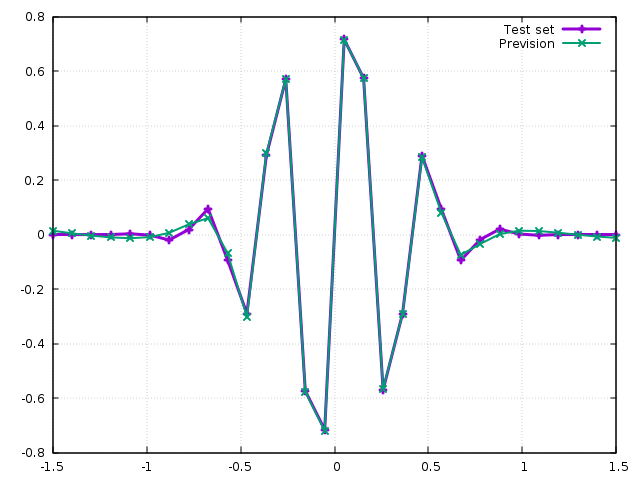
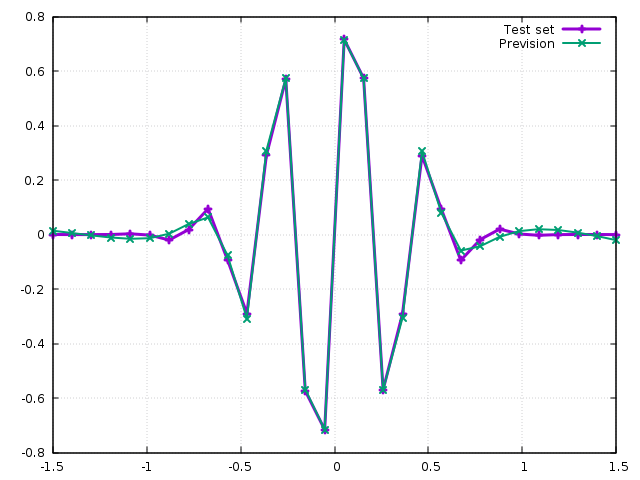
New branch: opt-inheritance
Rewrited Optimizers.hpp using single public inheritance. Classes are:
  GradientDescent->GDwithMomentum,RMSprop,KingmaBa=0
  KingmaBa->Adam(has one RMSprop object), AdaMax

The optimizer has still to be chosen compile time, changing its
declaration in NeuralNetwork.hpp (2 lines, b and W).

Results are coherent with the previous one obtained w/o inheritance.

Adam call operator has been made more memory efficient too.

The results provided in ./data/ are the one obtained with Adam.

For merge: only the file Optimizers.hpp has been significantly changed.

diff --git a/include/Optimizers.hpp b/include/Optimizers.hpp
@@ -13,94 +13,103 @@ It is necessary to work both with VectorXd and MatrixXd.
 Maybe it's better to use something like:
 	template <typename Derived>
 	void function_name( const MatrixBase<Derived> &)
-Moreover inheritance should be considered, both for the evident inherited structure
-and for polymorfism and runtime choices
 */
 
 template<typename T>
 class GradientDescent{
+protected:
+	virtual void update_objective(T& theta, const T& delta_theta, const double& alpha){
+		theta = theta - alpha*delta_theta;  
+	}
 public:
 	GradientDescent()=default;
 	GradientDescent(const size_t & m, const size_t & n):GradientDescent(){}
-	void operator()(T& theta, const T& gt, const double& alpha, const double & t){
-		theta=theta-alpha*gt;
+	virtual ~GradientDescent()=default;
+	virtual void operator()(T& theta, const T& gt, const double& alpha, const double & t){
+		update_objective(theta,gt,alpha);
 	}
 };
 
 template<typename T>
-class GDwithMomentum{
-private:
+class GDwithMomentum : public GradientDescent<T>{
+protected:
 	T mt;
 	double beta{0.9};
 public:
-	GDwithMomentum(const size_t & m, const size_t &n):mt(m,n){}
-	void set_beta(double b){beta=b;}
+	GDwithMomentum(const size_t & m, const size_t &n):GradientDescent<T>::GradientDescent(m,n),mt(m,n){}
+	virtual void set_beta(double b){beta=b;}
 	
-	void operator()(T& theta, const T& gt, const double& alpha, const double & t){
-		mt=beta*mt + (1.0-beta)*gt;
-		theta=theta-alpha*mt;
+	//Public just to be able to use an "has a" paradigm in Adam instead of multiple inheritance:
+	virtual void compute_momentum(const T & to_be_averaged){
+		mt = beta*mt + (1. - beta)*to_be_averaged;
+	}
+	void operator()(T& theta, const T& gt, const double& alpha, const double & t) override {
+		compute_momentum(gt);
+		this->update_objective(theta,mt,alpha);
 	}
 };
 
 template<typename T>
-class RMSprop{
+class RMSprop final : public GDwithMomentum<T>{
 private:
-	T st;
-	
-	double beta{0.9};
 	double epsilon{1e-8};
 public:
-	RMSprop(const size_t & m, const size_t & n):st(m,n){}
-	void set_param(double b, double e){beta=b; epsilon=e;}
+	RMSprop(const size_t & m, const size_t & n):GDwithMomentum<T>::GDwithMomentum(m,n){}
+	virtual void set_eps(double e){epsilon=e;}
+	//These 2 are needed to use "has a" in Adam, but they would be unnecessary e.g. with multiple inheritance
+	double get_eps(){return epsilon;}
+	const T& get_st(){return this->mt;}
 	
-	void operator()(T& theta, const T& gt, const double& alpha, const double & t){
-		st=beta*st + (1. - beta)*(gt.cwiseProduct(gt));
-		theta=theta - alpha * ( gt.cwiseProduct( (1./(epsilon + sqrt(st.array()))).matrix() ));
+	void operator()(T& theta, const T& gt, const double& alpha, const double & t) override {
+		this->compute_momentum(gt.cwiseProduct(gt));
+		this->update_objective(theta, ( gt.cwiseProduct( (1./(epsilon + sqrt(this->mt.array()))).matrix() )), alpha);
 	}
 };
 
 template<typename T>
-class Adam{
-private:
-	T mt;
-	T vt;
-	
-	double beta1{0.9};
+class KingmaBa : public GDwithMomentum<T>{
+protected:
 	double beta2{0.999};
-	double epsilon{1e-8};
 public:
-	Adam(const size_t & m, const size_t & n): mt(m,n), vt(m,n){}
-	void set_param(double b1, double b2, double e){
-		beta1=b1; beta2=b2; epsilon=e;
-	}
+	KingmaBa(const size_t & m, const size_t & n):GDwithMomentum<T>::GDwithMomentum(m,n){}
+	virtual void set_beta2(double b2){ beta2=b2;}
 
-	//This follows the Kingma-Ba 2015 article,
-	//consider possible memory savings...
-	void operator()(T& theta, const T& gt, const double & alpha, const size_t & t){
-		//compute the momenta:
-		mt = beta1*mt + (1.0-beta1)*gt; //GDwithMomentum step
-    vt = beta2*vt + (1.0-beta2)*(gt.cwiseProduct(gt));	//RMSprop step
-		//correction step:
-    T mt_hat = (1.0/(1.0-pow(beta1,t)))*mt;
-    T vt_hat = (1.0/(1.0-pow(beta2,t)))*vt;
-		//update:
-    theta=theta-(alpha * ( mt_hat.cwiseProduct( ( 1./(epsilon + sqrt(vt_hat.array())) ).matrix() )));
-	}
+	//void operator()(T& theta, const T& gt, const double & alpha, const double & t)override = 0;
 };
 
 template<typename T>
-class AdaMax{
+class Adam final : public KingmaBa<T>{
 private:
-	T mt;
+	RMSprop<T> rms;
+	T correction_step(const double beta, const std::size_t t, const T & mt){
+		return ((1.0/(1.0-std::pow(beta,t)))*mt); //check performance
+	}
+public:
+	Adam(const size_t & m, const size_t & n): KingmaBa<T>::KingmaBa(m,n), rms(m,n){}
+	
+		//This follows the Kingma-Ba 2015 article +  memory saving
+	void operator()(T& theta, const T& gt, const double& alpha, const double & t)override{
+		//compute the momenta:
+		this->compute_momentum(gt);	//GDwithMomentum step
+		rms.set_beta(this->beta2);
+		rms.compute_momentum(gt.cwiseProduct(gt));//RMSprop step
+		//correction step:
+		//T mt_hat = correction_step(this->beta,t,this->mt);
+		//T vt_hat = correction_step(this->beta2,t,rms.get_st());
+		//update:
+		//this->update_objective(theta,( mt_hat.cwiseProduct( ( 1./(rms.get_eps() + sqrt(vt_hat.array())) ).matrix() )), alpha);
+		this->update_objective(theta,( (correction_step(this->beta,t,this->mt)).cwiseProduct( ( 1./(rms.get_eps() + sqrt((correction_step(this->beta2,t,rms.get_st())).array())) ).matrix() )), alpha);
+	}	
+
+};
+
+template<typename T>
+class AdaMax final : public KingmaBa<T>{
+private:
 	T ut;
 	
-	double beta1{0.9};
-	double beta2{0.999};
-	double epsilon{1e-8};
-	
 	T cwiseMax(const T& a, const T& b){
-		//both T must have same dimensions,
-		//implement a check
+		//both T must have same dimensions, implement a check
 		T ret(a.rows(),a.cols());
 		for(size_t i=0; i<a.rows(); ++i)
 			for(size_t j=0; j<a.cols();++j)
@@ -108,21 +117,24 @@ private:
 		return ret;
 	}
 	
-public:
-	AdaMax(const size_t & m, const size_t & n): mt(m,n), ut(m,n){}
-	void set_param(double b1, double b2, double e){
-		beta1=b1; beta2=b2; epsilon=e;
-	}
+	//could be avoided with KingmaBa: public GDwithMomentum<T>, public RMSprop<T>
+	double epsilon{1e-8};
 	
-	//Memory already saved here,
-	//since AdaMax doesn't require an Adam-like correction step
-	void operator()(T& theta, const T& gt, const double & alpha, const size_t & t){
+public:
+	AdaMax(const size_t & m, const size_t & n): KingmaBa<T>::KingmaBa(m,n), ut(m,n){}
+	
+	void set_epsilon(double e){epsilon=e;}
+	
+	//Memory already saved here, since AdaMax doesn't require an Adam-like correction step:
+	void operator()(T& theta, const T& gt, const double& alpha, const double & t)override{
 		//compute the momenta
-		mt = beta1*mt + (1.0-beta1)*gt; //GDwithMomentum step
-		ut = cwiseMax(beta2*ut,gt.cwiseAbs()); //AdaMax step
+		this->compute_momentum(gt);										//GDwithMomentum step
+		ut = cwiseMax(this->beta2*ut,gt.cwiseAbs());	//AdaMax step
 		//update:
-    theta=theta - ( alpha / (1.0-pow(beta1,t)) ) * ( mt.cwiseProduct( ( 1./(epsilon + ut.array()) ).matrix() ) );
+		this->update_objective(theta, (( 1. / (1.-std::pow(this->beta,t)) ) * ( this->mt.cwiseProduct( (1./(epsilon+ut.array())).matrix() ) )), alpha);
 	}
+
+
 };
 
 }//End of Optimizers namespace

diff --git a/include/NeuralNetwork.hpp b/include/NeuralNetwork.hpp
@@ -33,8 +33,8 @@ private:
 	std::vector<Eigen::VectorXd> db;	//db[l]=d(cost)/d(b[l])=...=B*d(output[l])/(db[l])
 	
 	//Optimizers:
-	std::vector<Optimizers::AdaMax<Eigen::MatrixXd>> W_opt;
-	std::vector<Optimizers::AdaMax<Eigen::VectorXd>> b_opt;
+	std::vector<Optimizers::Adam<Eigen::MatrixXd>> W_opt;
+	std::vector<Optimizers::Adam<Eigen::VectorXd>> b_opt;
 	
 public:
 	
